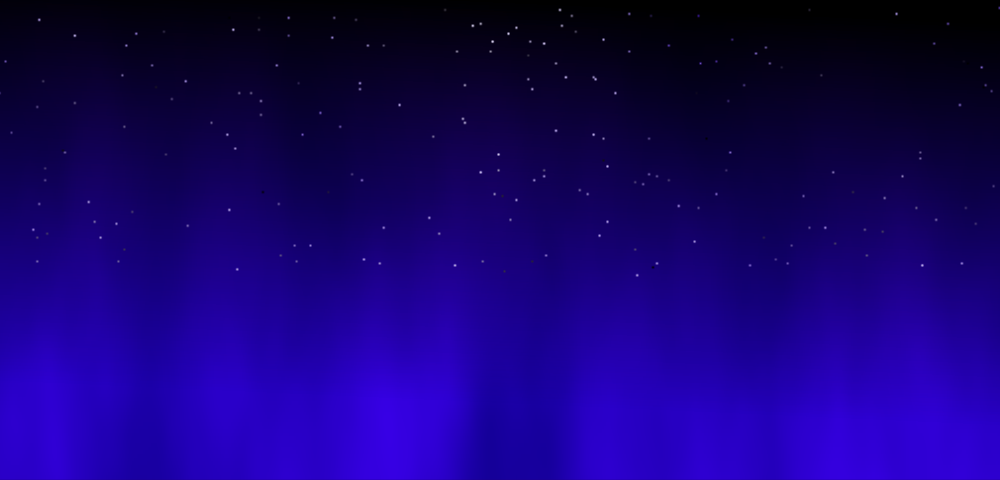
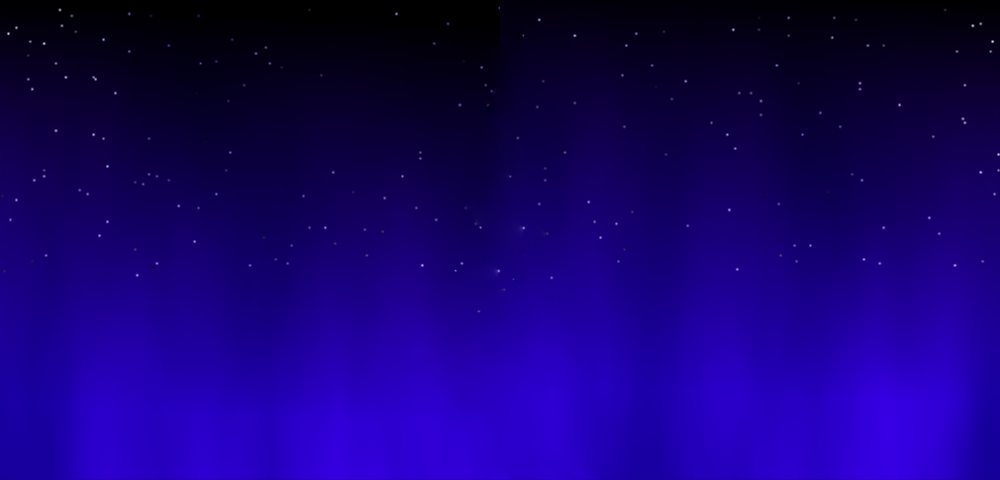
added a new background and a new block as well as new code

diff --git a/side_scroller.html b/side_scroller.html
@@ -6,50 +6,85 @@
   border: 10px solid black;
 }
 </style>
-<script type="text/javascript" src='javascripts/games_common_v0.2.js'></script>  
+<script type="text/javascript" src='javascripts/games_common_v0.2.js'></script>
 <script type="text/javascript">
+
 function Player(params){
   this.inheritFrom = Entity;
   this.inheritFrom(params);
 
   this.update = function(){
-    
+    this.ax *= this.friction;
+    this.ay *= this.friction;
+    this.x += Math.round(this.ax);
+    this.y += Math.round(this.ay);
   }
 
   this.draw = function(){
-    
+    this.context.save();
+    this.context.fillStyle = "rgb(155, 155, 155)";
+    this.context.fillRect(this.x-40, this.y-40, 80, 80);
+    this.context.restore();
   }
 
-  this.friction = params.friction;
+  this.friction = params.friction || 0.88;
 
 }
 
 window.onload = function(){
   key = new KeyHandler();
   ctx = document.getElementById('canvas').getContext('2d');
-  background = new ImageHandler({'context': ctx, 'image_path': 'images/game_bg.png'});
+  background = new ImageHandler({'context': ctx, 'image_path': 'images/game_bg1.png'});
   player = new Player({'context': ctx, 'x': 320, 'y': 240});
-    
-  image_x = 0; 
+  fps = 0;
+  fps_tag = document.getElementById('fps');
+  var speed = 1;
+  image_x = 0;
 
+  var level_width = background.image.width;
 
 
   setInterval(function(){
+    fps_tag.innerHTML = fps.toString();
+    fps = 0;
+  }, 1000);
 
+  setInterval(function(){
+    fps++;
+    //update
+    if(key.keyIs('a')){
+      player.ax -= speed;
+    }
+    if(key.keyIs('d')){
+      player.ax += speed;
+    }
+    if(key.keyIs('w')){
+      player.ay -= speed;
+    }
+    if(key.keyIs('s')){
+      player.ay += speed;
+    }
 
+    player.update();
     image_x++;
 
+    //drawing
+    
     ctx.clearRect(0, 0, 640, 480);
-    background.draw(image_x%(background.image.width-640), 0, 640, 480, 0, 0, 640, 480);
-    // p.draw();
-  }, 1000/24);
-   
+    
+    player.draw();
+
+  }, 1000/60);
+
 };
 
 </script>
 
 </head>
 <body>
+<div>
+  FPS: <span id='fps'></span>
+</div>
 <canvas id='canvas' width='640px' height='480px'></canvas>
 </body>
 </html>

diff --git a/javascripts/games_common_v0.2.js b/javascripts/games_common_v0.2.js
@@ -75,8 +75,14 @@ function KeyHandler(){
     return false;
   }
 
+  this.keyIs = function(letter){
+    if(this.keyStates[keyHash[letter]]) return true;
+    return false;
+  }
+
   this.debug = false;
   this.keyStates = {};
+  var keyHash = {'backspace': 8,'tab': 9,'enter': 13,'shift': 16,'ctrl': 17,'alt': 18,'pause_break': 19,'caps_lock': 20,'escape': 27,'page_up': 33,'page_down': 34,'end': 35,'home': 36,'left_arrow': 37,'up_arrow': 38,'right_arrow': 39,'down_arrow': 40,'insert': 45,'delete': 46,'0': 48,'1': 49,'2': 50,'3': 51,'4': 52,'5': 53,'6': 54,'7': 55,'8': 56,'9': 57,'a': 65,'b': 66,'c': 67,'d': 68,'e': 69,'f': 70,'g': 71,'h': 72,'i': 73,'j': 74,'k': 75,'l': 76,'m': 77,'n': 78,'o': 79,'p': 80,'q': 81,'r': 82,'s': 83,'t': 84,'u': 85,'v': 86,'w': 87,'x': 88,'y': 89,'z': 90,'left_window_key': 91,'right_window_key': 92,'select_key': 93,'numpad_0': 96,'numpad_1': 97,'numpad_2': 98,'numpad_3': 99,'numpad_4': 100,'numpad_5': 101,'numpad_6': 102,'numpad_7': 103,'numpad_8': 104,'numpad_9': 105,'multiply': 106,'add': 107,'subtract': 109,'decimal_point': 110,'divide': 111,'f1': 112,'f2': 113,'f3': 114,'f4': 115,'f5': 116,'f6': 117,'f7': 118,'f8': 119,'f9': 120,'f10': 121,'f11': 122,'f12': 123,'num_lock': 144,'scroll_lock': 145,'semi_colon': 186,'equal_sign': 187,'comma': 188,'dash': 189,'period': 190,'forward_slash': 191,'grave_accent': 192,'open_bracket': 219,'back_slash': 220,'close_braket': 221,'single_quote': 222};
   window.addEventListener("keydown", bind(this, this.setKey), false);
   window.addEventListener("keyup", bind(this, this.unsetKey), false);
 }
